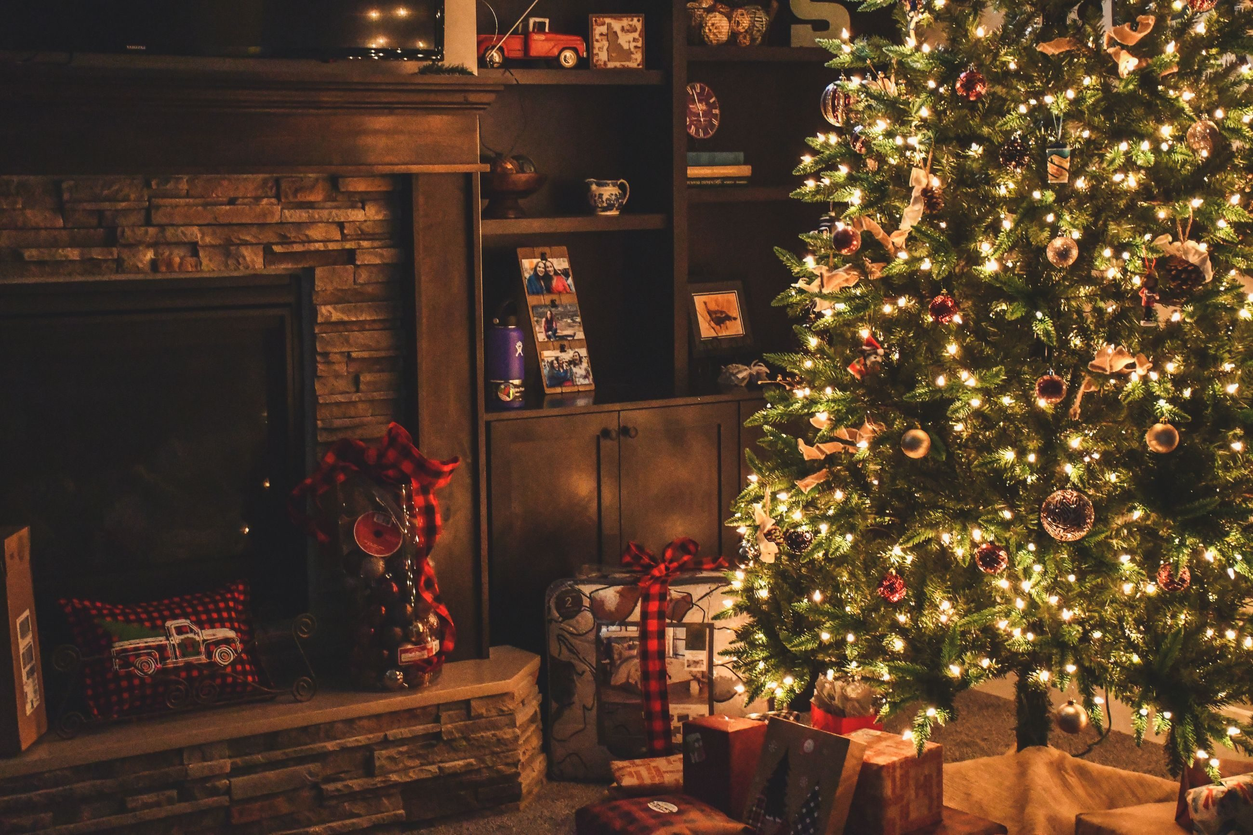
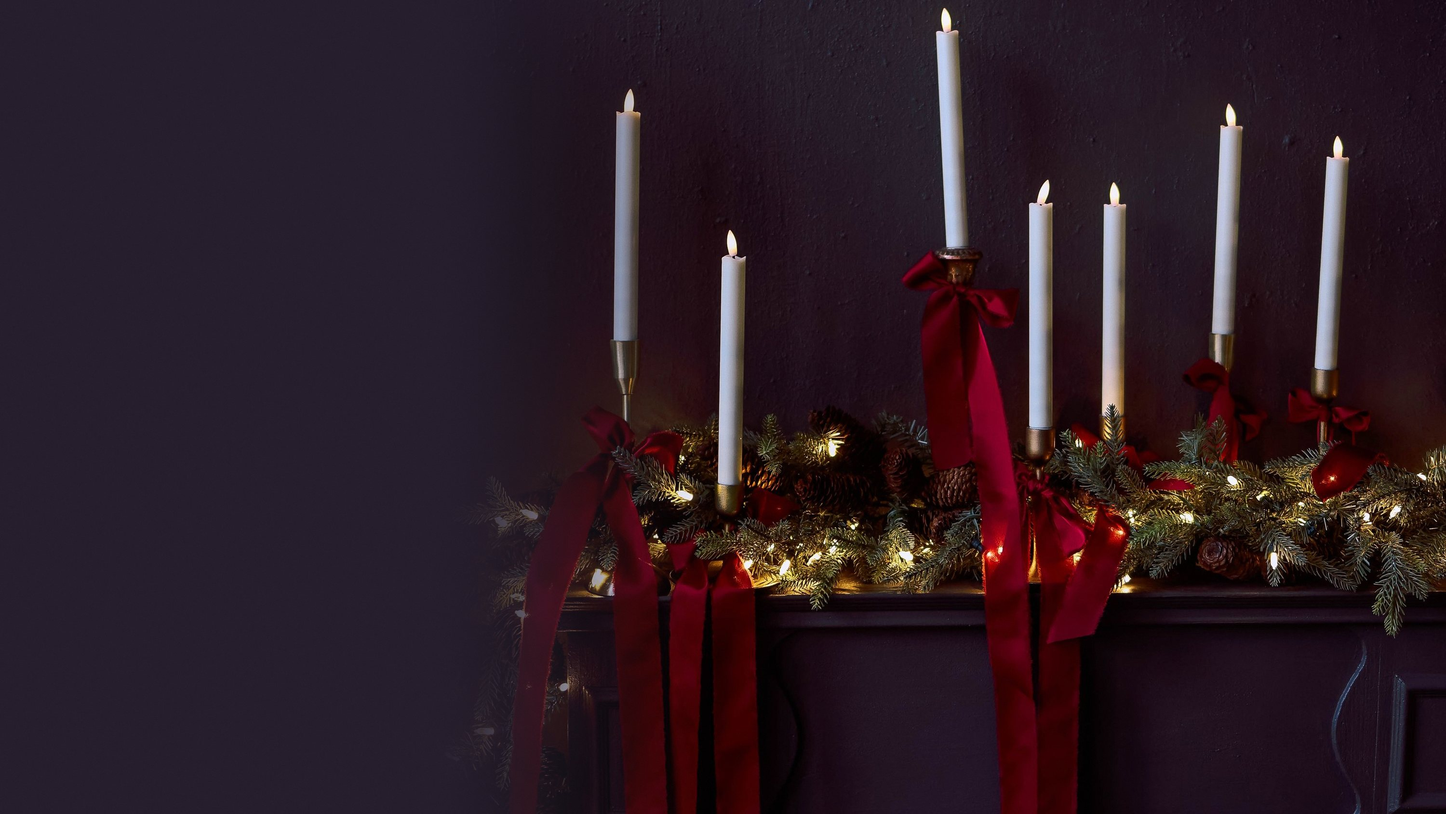
Replace italics with spaced capitals and change the hero
Headings now use Cormorant Garamond in spaced capitals across the site,
with no italics. The hero is a darker candlelit mantel with velvet ribbon.

Claude-Session: https://claude.ai/code/session_01BRVRusWH6xm1ZwGaMcoXVf

diff --git a/app/globals.css b/app/globals.css
@@ -6,9 +6,8 @@ a{color:inherit}
 img{display:block}
 h1,h2,h3,p{margin:0}
 button{font:inherit;color:inherit}
-em{font-style:italic;color:var(--brown)}
 .eyebrow{font-size:11px;font-weight:500;letter-spacing:.24em;text-transform:uppercase;color:var(--brown)}
-.heading{font-family:var(--serif);font-size:52px;line-height:1.14;font-weight:400}
+.heading{font-family:var(--serif);font-size:40px;line-height:1.28;font-weight:400;letter-spacing:.13em;text-transform:uppercase}
 .text-link{display:inline-block;padding:8px 0;border-bottom:1px solid var(--gold);text-decoration:none;font-size:11px;font-weight:500;letter-spacing:.22em;text-transform:uppercase}
 .nav{position:relative;z-index:2;max-width:1440px;margin:0 auto;padding:22px 32px;display:flex;flex-wrap:wrap;align-items:center;justify-content:space-between;gap:8px 32px}
 .nav-group{flex:1 1 280px;display:flex;flex-wrap:wrap;gap:0 28px;font-size:11px;font-weight:400;letter-spacing:.2em;text-transform:uppercase}
@@ -19,17 +18,16 @@ em{font-style:italic;color:var(--brown)}
 .nav-solid{border-bottom:1px solid var(--line)}
 .hero{position:relative;overflow:hidden;background:var(--night);color:#fff}
 .cover{object-fit:cover}
-.hero-wash{position:absolute;inset:0;background:linear-gradient(180deg,rgba(16,13,9,.5) 0%,rgba(16,13,9,0) 22%,rgba(16,13,9,0) 62%,rgba(16,13,9,.62) 100%)}
+.hero-wash{position:absolute;inset:0;background:linear-gradient(180deg,rgba(16,13,9,.32) 0%,rgba(16,13,9,0) 18%,rgba(16,13,9,0) 72%,rgba(16,13,9,.42) 100%)}
 .hero-inner{position:relative;max-width:1440px;min-height:790px;margin:0 auto;padding:96px 80px 44px;display:flex;flex-direction:column;justify-content:flex-end;gap:72px}
-.hero h1{margin-bottom:18px;font-family:var(--serif);font-size:66px;line-height:1.12;font-weight:400;letter-spacing:.13em;text-transform:uppercase;text-shadow:0 2px 24px rgba(0,0,0,.45)}
-.hero h1 span{display:block;font-size:58px;font-style:italic;letter-spacing:.01em;text-transform:none;color:var(--pale-gold)}
+.hero h1{margin-bottom:20px;font-family:var(--serif);font-size:52px;line-height:1.22;font-weight:400;letter-spacing:.14em;text-transform:uppercase}
 .hero p{max-width:520px;margin-bottom:30px;font-size:17px;text-shadow:0 1px 14px rgba(0,0,0,.5)}
 .outline{display:inline-block;padding:14px 30px;border:1px solid var(--pale-gold);color:var(--pale-gold);text-decoration:none;font-size:11px;font-weight:500;letter-spacing:.22em;text-transform:uppercase}
 .theme-tabs{display:flex;flex-wrap:wrap;gap:4px 34px;border-top:1px solid rgba(255,255,255,.28);padding-top:12px}
 .theme-tabs button{min-height:44px;padding:0;background:none;border:0;color:#fff;cursor:pointer;font-size:11px;font-weight:400;letter-spacing:.2em;text-transform:uppercase}
 .theme-tabs button[aria-pressed=true]{color:var(--pale-gold)}
 .intro{max-width:1280px;margin:0 auto;padding:120px 40px;display:grid;grid-template-columns:repeat(auto-fit,minmax(320px,1fr));gap:72px;align-items:center}
-.intro .heading{font-size:50px;margin:20px 0 26px}
+.intro .heading{margin:20px 0 26px}
 .intro p{max-width:520px;margin-bottom:18px}
 .intro p:last-of-type{margin-bottom:32px}
 .frame{position:relative;width:100%;overflow:hidden}
@@ -42,26 +40,26 @@ em{font-style:italic;color:var(--brown)}
 .theme-card img{transition:transform .8s ease}
 .theme-card:hover img{transform:scale(1.03)}
 .theme-card div{position:absolute;z-index:1;left:24px;right:20px;bottom:22px}
-.theme-card strong{display:block;font-family:var(--serif);font-size:30px;font-weight:400;line-height:1.15}
+.theme-card strong{display:block;font-family:var(--serif);font-size:21px;font-weight:500;line-height:1.25;letter-spacing:.14em;text-transform:uppercase}
 .theme-card span{font-size:13px;line-height:1.5}
 .moment{position:relative;overflow:hidden;background:var(--night);color:#fff}
 .shade{position:absolute;inset:0;background:rgba(14,10,7,.46)}
 .moment-inner{position:relative;max-width:860px;margin:0 auto;padding:170px 32px;text-align:center}
 .moment-inner .eyebrow{color:var(--pale-gold);margin-bottom:18px}
-.moment-inner p{font-family:var(--serif);font-size:50px;line-height:1.18;font-style:italic;text-shadow:0 2px 20px rgba(0,0,0,.5)}
+.moment-inner p{font-family:var(--serif);font-size:36px;line-height:1.34;letter-spacing:.13em;text-transform:uppercase;text-shadow:0 2px 20px rgba(0,0,0,.5)}
 .home{max-width:1360px;margin:0 auto;padding:120px 40px 60px}
 .home .heading{margin:14px 0 44px}
 .home-grid{display:grid;grid-template-columns:repeat(auto-fit,minmax(280px,1fr));gap:28px}
 .home-grid a{text-decoration:none}
 .home-grid a:nth-child(2){margin-top:56px}
-.home-grid h3{margin-top:16px;font-family:var(--serif);font-size:30px;font-weight:400;line-height:1.2}
+.home-grid h3{margin-top:16px;font-family:var(--serif);font-size:21px;font-weight:500;line-height:1.25;letter-spacing:.14em;text-transform:uppercase}
 .look{max-width:1360px;margin:0 auto;padding:80px 40px 110px;display:flex;flex-wrap:wrap;gap:44px 64px;align-items:center}
 .look-photo{position:relative;flex:3 1 560px;min-width:0}
 .look-photo img{width:100%;height:auto}
 .spot{position:absolute;width:44px;height:44px;margin:-22px 0 0 -22px;border-radius:50%;border:1px solid #fff;background:rgba(20,16,12,.5);color:#fff;cursor:pointer;font-family:var(--serif);font-size:20px}
 .spot[aria-pressed=true]{background:#fff;color:var(--ink)}
 .look-copy{flex:2 1 320px}
-.look-copy .heading{font-size:46px;margin:14px 0 22px}
+.look-copy .heading{font-size:34px;margin:14px 0 22px}
 .look-list{border-top:1px solid var(--line)}
 .look-list a{display:flex;justify-content:space-between;gap:20px;padding:15px 8px;border-bottom:1px solid var(--line);text-decoration:none}
 .look-list a.on{background:var(--sand)}
@@ -72,20 +70,19 @@ em{font-style:italic;color:var(--brown)}
 .product-grid{display:grid;grid-template-columns:repeat(auto-fit,minmax(250px,1fr));gap:44px 24px}
 .product-card{display:block;text-decoration:none}
 .product-card small{display:block;margin-top:16px;font-size:10px;font-weight:500;letter-spacing:.22em;text-transform:uppercase;color:var(--brown)}
-.product-card strong{display:block;font-family:var(--serif);font-size:27px;font-weight:400;line-height:1.25}
+.product-card strong{display:block;margin:2px 0;font-family:var(--serif);font-size:19px;font-weight:500;line-height:1.3;letter-spacing:.12em;text-transform:uppercase}
 .product-card span{font-size:14px}
 .delivery{max-width:1040px;margin:0 auto;padding:110px 40px;text-align:center}
-.delivery .heading{font-size:48px;margin-bottom:8px}
+.delivery .heading{margin-bottom:8px}
 .delivery>p{margin-bottom:36px}
 .delivery-grid{display:grid;grid-template-columns:repeat(auto-fit,minmax(140px,1fr));border-top:1px solid var(--line);border-bottom:1px solid var(--line)}
 .delivery-grid div{padding:20px 8px}
 .delivery-grid small{display:block;font-size:10px;font-weight:500;letter-spacing:.2em;color:var(--brown)}
-.delivery-grid strong{font-family:var(--serif);font-size:25px;font-weight:400}
+.delivery-grid strong{font-family:var(--serif);font-size:19px;font-weight:500;letter-spacing:.1em;text-transform:uppercase}
 .signup{position:relative;overflow:hidden;background:var(--night);color:#fff}
 .signup .shade{background:rgba(12,10,8,.6)}
 .signup-inner{position:relative;max-width:620px;margin:0 auto;padding:110px 32px;text-align:center}
-.signup .heading{font-size:46px;margin-bottom:10px}
-.signup .heading em{color:var(--pale-gold)}
+.signup .heading{font-size:36px;margin-bottom:10px}
 .signup-inner>p{margin-bottom:26px}
 .signup form{display:flex;flex-wrap:wrap;gap:10px;align-items:flex-end}
 .signup label{flex:1 1 260px;display:flex;flex-direction:column;gap:4px;text-align:left;font-size:12px}
@@ -107,10 +104,10 @@ em{font-style:italic;color:var(--brown)}
 .thumbs button{position:relative;height:160px;padding:0;border:1px solid transparent;background:none;cursor:pointer;overflow:hidden}
 .thumbs button[aria-pressed=true]{border-color:var(--gold)}
 .details{display:flex;flex-direction:column;gap:24px;padding-top:20px}
-.details h1{margin:12px 0 8px;font-family:var(--serif);font-size:58px;line-height:1.1;font-weight:400}
+.details h1{margin:12px 0 8px;font-family:var(--serif);font-size:42px;line-height:1.22;font-weight:400;letter-spacing:.13em;text-transform:uppercase}
 .price{font-size:20px}
 .muted{font-size:13px;color:#6A6156}
-.lede{font-family:var(--serif);font-size:25px;line-height:1.4;font-style:italic;color:var(--brown)}
+.lede{font-size:17px}
 .qty{display:flex;flex-direction:column;gap:4px;font-size:12px}
 .qty input{width:96px;height:48px;padding:0 12px;border:1px solid #B9AE9E;background:#fff;font:inherit;font-size:16px}
 .buy{display:flex;flex-direction:column;gap:10px}
@@ -121,21 +118,21 @@ em{font-style:italic;color:var(--brown)}
 .spec div{padding:16px 0;border-bottom:1px solid var(--line)}
 .spec h2{margin-bottom:2px;font-size:10px;font-weight:500;letter-spacing:.22em;text-transform:uppercase;color:var(--brown)}
 @media (max-width:760px){
+.hero-wash{background:rgba(16,13,9,.44)}
 .hero-inner{min-height:680px;padding:64px 20px 28px;gap:44px}
-.hero h1{font-size:40px;letter-spacing:.09em}
-.hero h1 span{font-size:38px}
+.hero h1{font-size:34px;letter-spacing:.11em}
 .logo{order:-1;flex-basis:100%;font-size:24px}
 .nav{padding:14px 20px}
 .nav-group{flex:1 1 auto}
 .intro,.look,.home,.edit-inner,.delivery,.product-page{padding-left:20px;padding-right:20px}
 .intro{padding-top:72px;padding-bottom:72px;gap:40px}
-.heading,.intro .heading,.look-copy .heading,.delivery .heading,.signup .heading{font-size:38px}
+.heading,.look-copy .heading,.signup .heading{font-size:29px;letter-spacing:.11em}
 .moment-inner{padding:110px 24px}
-.moment-inner p{font-size:34px}
+.moment-inner p{font-size:26px;letter-spacing:.1em}
 .theme-card{height:420px}
 .home-grid a:nth-child(2){margin-top:0}
 .gallery-main{height:460px}
-.details h1{font-size:44px}
+.details h1{font-size:32px}
 .product-layout{gap:32px}
 }
 @media (prefers-reduced-motion:reduce){html{scroll-behavior:auto}.theme-card img{transition:none}}

diff --git a/app/page.tsx b/app/page.tsx
@@ -24,7 +24,7 @@ export default async function HomePage() {
         <section className="intro">
           <div>
             <div className="eyebrow">Welcome</div>
-            <h2 className="heading">The pieces you unpack every December. <em>The ones that feel like home.</em></h2>
+            <h2 className="heading">The pieces you unpack every December. The ones that feel like home.</h2>
             <p>Ivy &amp; Bough brings together elegant, unique Christmas pieces for the table, the tree and the front door.</p>
             <p>Every piece is selected to be kept, and seen and approved by us before it reaches the store.</p>
             <a href="#themes" className="text-link">Find your Christmas</a>
@@ -37,7 +37,7 @@ export default async function HomePage() {
         <section id="themes" className="themes">
           <div className="centre">
             <div className="eyebrow">Find your Christmas</div>
-            <h2 className="heading">Five ways to <em>dress the home</em></h2>
+            <h2 className="heading">Five ways to dress the home</h2>
           </div>
           <div className="theme-grid">
             {themes.map((t) => (
@@ -60,7 +60,7 @@ export default async function HomePage() {
 
         <section id="home" className="home">
           <div className="eyebrow">Around the home</div>
-          <h2 className="heading">From the table <em>to the front door</em></h2>
+          <h2 className="heading">From the table to the front door</h2>
           <div className="home-grid">
             {places.map((p) => (
               <a key={p.title} href="#edit">
@@ -76,7 +76,7 @@ export default async function HomePage() {
         <section id="edit" className="edit">
           <div className="edit-inner">
             <div className="edit-head">
-              <h2 className="heading">The <em>Christmas Edit</em></h2>
+              <h2 className="heading">The Christmas Edit</h2>
               <a href="#edit" className="text-link">View all</a>
             </div>
             <div className="product-grid">
@@ -96,7 +96,7 @@ export default async function HomePage() {
         </section>
 
         <section id="delivery" className="delivery">
-          <h2 className="heading">Under the tree <em>in time</em></h2>
+          <h2 className="heading">Under the tree in time</h2>
           <p>Last order dates for Christmas delivery.</p>
           <div className="delivery-grid">
             {dates.map((d) => (
@@ -109,7 +109,7 @@ export default async function HomePage() {
           <Image src="/images/theme-modern.jpg" alt="" fill sizes="100vw" className="cover" style={{ objectPosition: "center 40%" }} />
           <div className="shade" />
           <div className="signup-inner">
-            <h2 className="heading">First look at <em>new pieces</em></h2>
+            <h2 className="heading">First look at new pieces</h2>
             <p>New collections and Christmas delivery dates, before anyone else.</p>
             <SignupForm />
           </div>

diff --git a/components/Hero.tsx b/components/Hero.tsx
@@ -12,12 +12,12 @@ export function Hero({ themes }: { themes: Theme[] }) {
       {themes.map((t) => (
         <Image key={t.id} src={t.image_url} alt={t.id === active.id ? t.image_alt : ""} fill priority={t.id === themes[0].id} sizes="100vw" quality={85} className="cover" style={{ objectPosition: t.hero_position, opacity: t.id === active.id ? 1 : 0, transition: "opacity .6s ease" }} />
       ))}
-      <div style={{ position: "absolute", inset: 0, background: `linear-gradient(90deg, rgba(16,13,9,${active.hero_shade}) 0%, rgba(16,13,9,.28) 52%, rgba(16,13,9,0) 78%)` }} />
+      <div style={{ position: "absolute", inset: 0, background: `linear-gradient(90deg, rgba(16,13,9,${active.hero_shade}) 0%, rgba(16,13,9,${active.hero_shade * 0.4}) 52%, rgba(16,13,9,0) 78%)` }} />
       <div className="hero-wash" />
       <Nav />
       <div className="hero-inner">
-        <div style={{ maxWidth: 760 }}>
-          <h1>Bring Christmas home,<span>to keep for years.</span></h1>
+        <div style={{ maxWidth: 560 }}>
+          <h1>Bring Christmas home, to keep for years</h1>
           <p>{active.line}</p>
           <a href="#edit" className="outline">Shop {active.name}</a>
         </div>

diff --git a/components/ShopTheLook.tsx b/components/ShopTheLook.tsx
@@ -22,7 +22,7 @@ export function ShopTheLook({ productHref }: { productHref: string }) {
       </div>
       <div className="look-copy">
         <div className="eyebrow">Shop the look</div>
-        <h2 className="heading">The <em>Rustic Homestead</em> room</h2>
+        <h2 className="heading">The Rustic Homestead room</h2>
         <div className="look-list">
           {spots.map((s, i) => (
             <Link key={s.name} href={productHref} className={on === i ? "on" : ""}><span>{i + 1}. {s.name}</span><span>[YOUR PRICE]</span></Link>

diff --git a/app/layout.tsx b/app/layout.tsx
@@ -2,7 +2,7 @@ import type { Metadata } from "next";
 import { Cormorant_Garamond, Montserrat } from "next/font/google";
 import "./globals.css";
 
-const serif = Cormorant_Garamond({ subsets: ["latin"], weight: ["400", "500"], style: ["normal", "italic"], variable: "--font-serif" });
+const serif = Cormorant_Garamond({ subsets: ["latin"], weight: ["400", "500"], variable: "--font-serif" });
 const sans = Montserrat({ subsets: ["latin"], weight: ["300", "400", "500"], variable: "--font-sans" });
 
 export const metadata: Metadata = {

diff --git a/IMAGE-CREDITS.md b/IMAGE-CREDITS.md
@@ -4,7 +4,7 @@ All images in `public/images/` are temporary Pexels stock photos used for design
 
 | File | Pexels photo ID |
 |---|---|
-| hero-traditional.jpg | 1708601 |
+| hero-traditional.jpg | 29465901 (extended wall on the left) |
 | theme-winter.jpg | 14647412 |
 | theme-modern.jpg | 19421460 |
 | theme-rustic.jpg | 10068655 |
